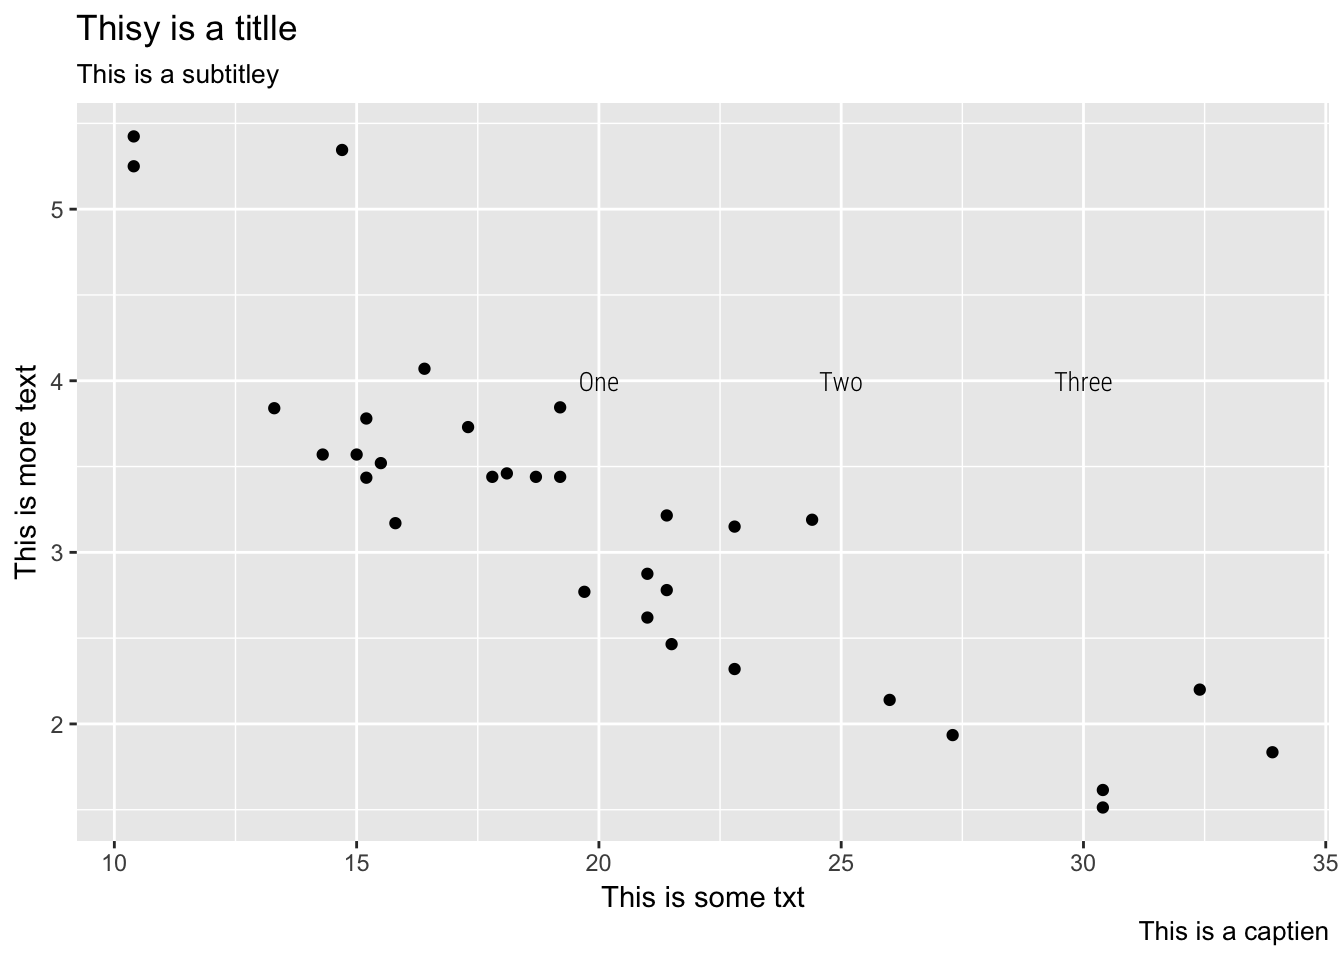
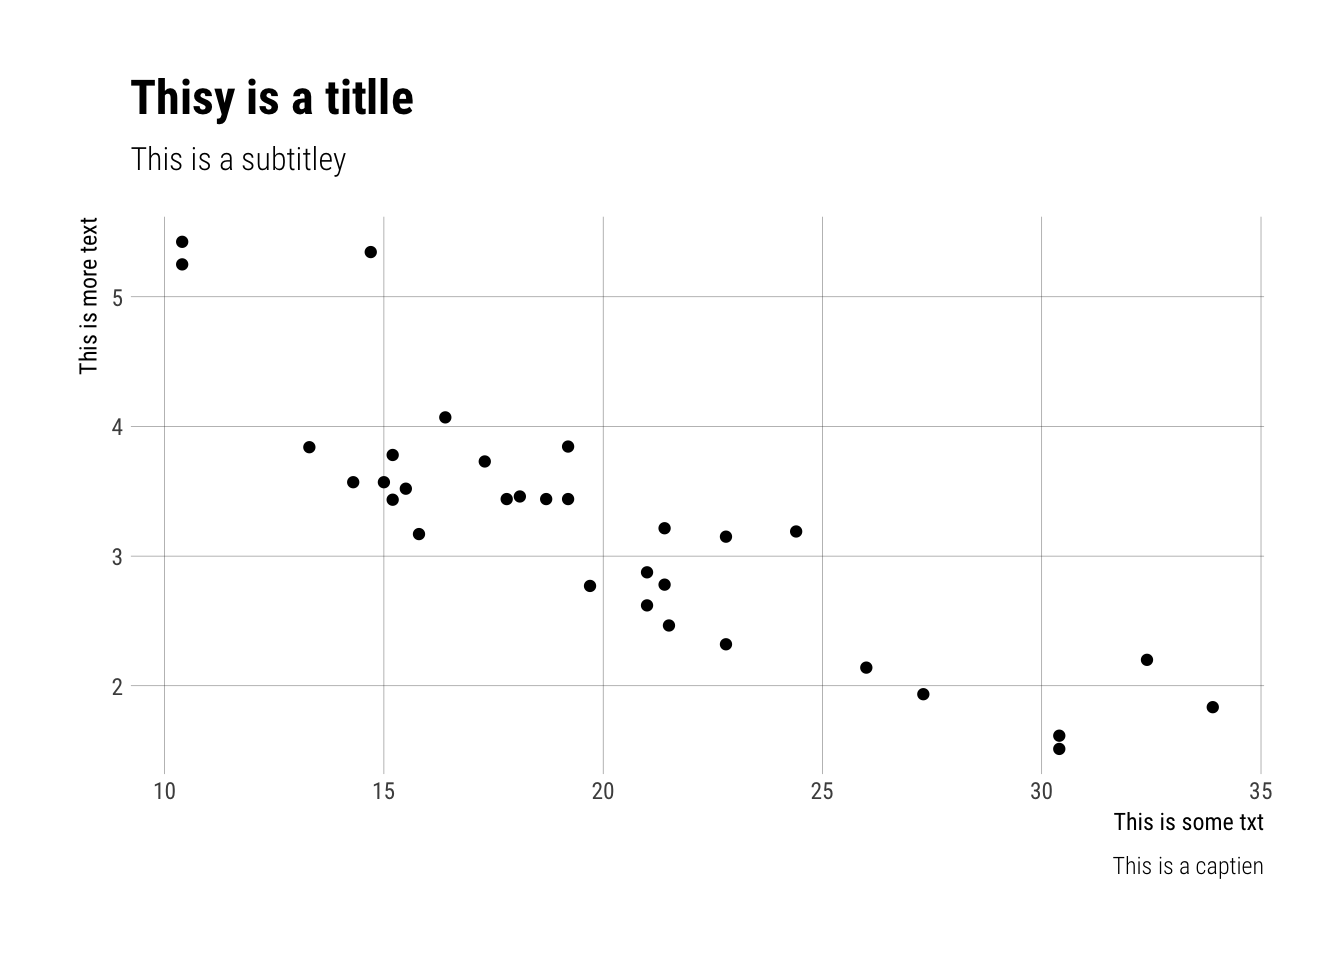
spell check example tweak

diff --git a/README.md b/README.md
@@ -139,36 +139,13 @@ count(mpg, class) %>%
 ``` r
 df <- data.frame(x=c(20, 25, 30), y=c(4, 4, 4), txt=c("One", "Two", "Three"))
 
-# piped
-
 ggplot(mtcars, aes(mpg, wt)) +
   geom_point() +
-  geom_text(data=df, aes(x=x, y=y, label=txt)) +
   labs(x="This is some txt", y="This is more text",
        title="Thisy is a titlle",
        subtitle="This is a subtitley",
-       caption="This is a captien") %>%
-  gg_check()
-```
-
-    ## Possible misspelled words in [title]: (Thisy, titlle)
-
-    ## Possible misspelled words in [subtitle]: (subtitley)
-
-    ## Possible misspelled words in [caption]: (captien)
-
-<img src="README_files/figure-markdown_github/unnamed-chunk-10-1.png" width="672" />
-
-``` r
-# not-piped
-
-ggplot(mtcars, aes(mpg, wt)) +
-  geom_point() +
-  geom_text(data=df, aes(x=x, y=y, label=txt)) +
-  labs(x="This is some txt", y="This is more text",
-       title="Thisy is a titlle",
-       subtitle="This is a subtitley",
-       caption="This is a captien") -> gg
+       caption="This is a captien") +
+  theme_ipsum_rc(grid="XY") -> gg
 
 gg_check(gg)
 ```
@@ -179,7 +156,7 @@ gg_check(gg)
 
     ## Possible misspelled words in [caption]: (captien)
 
-<img src="README_files/figure-markdown_github/unnamed-chunk-10-2.png" width="672" />
+<img src="README_files/figure-markdown_github/unnamed-chunk-10-1.png" width="672" />
 
 ### Test Results
 
@@ -190,7 +167,7 @@ library(testthat)
 date()
 ```
 
-    ## [1] "Sat Feb 11 20:45:48 2017"
+    ## [1] "Sat Feb 11 20:58:58 2017"
 
 ``` r
 test_dir("tests/")
